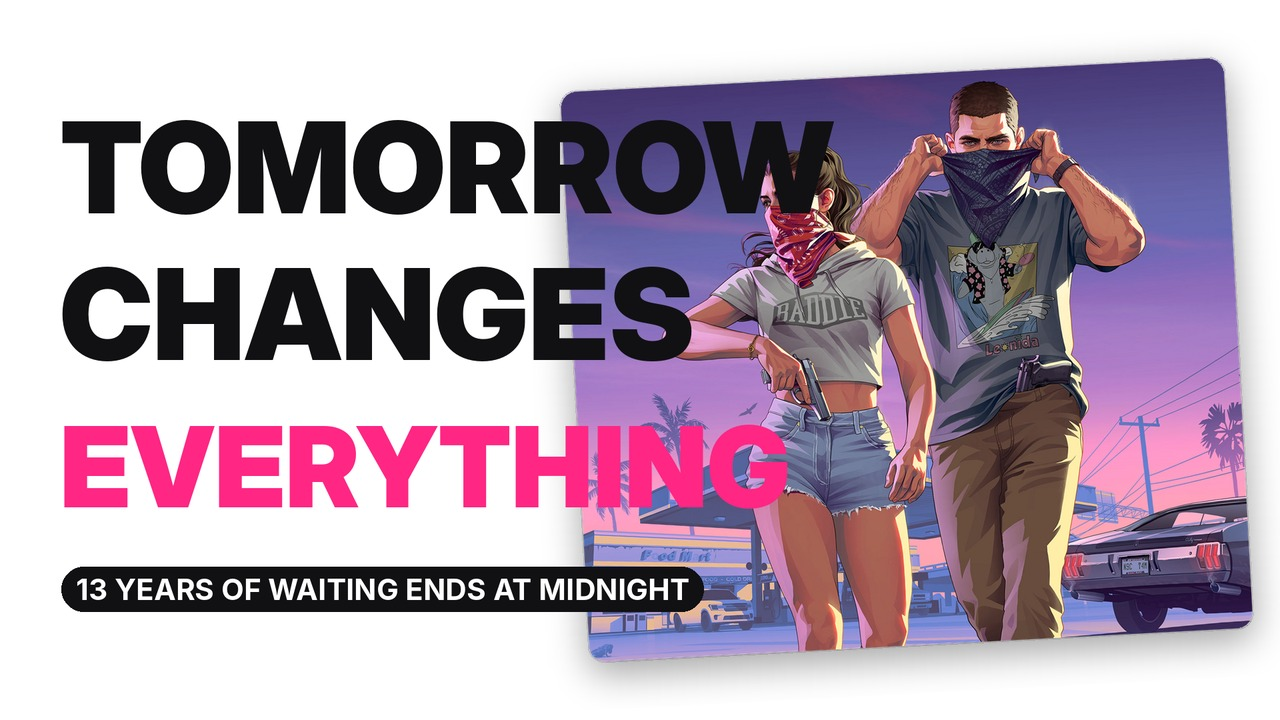
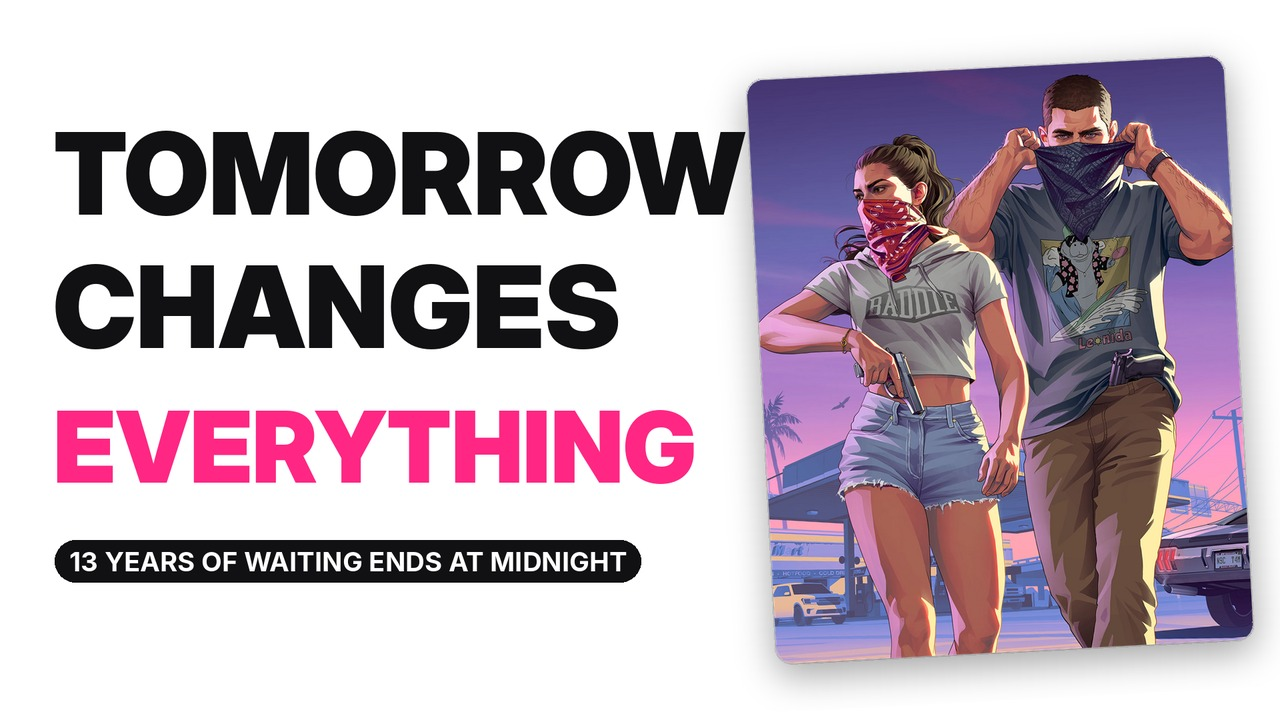
Fix thumbnail layout and package note
Claude-Session: https://claude.ai/code/session_01LyErWgJkQ2kZAfzo24Tw5s

diff --git a/gta6-video/UPLOAD_PACKAGE.md b/gta6-video/UPLOAD_PACKAGE.md
@@ -54,4 +54,4 @@ History (long-established):
 - "Biggest day in human history" is deliberate hyperbole; the script walks it back in the next sentence.
 - "25 games, 2001-2013" counts Rockstar-published titles including ports and handheld entries.
 - The Scotland aerial b-roll is Edinburgh, not Dundee; it is labeled "Scotland".
-- The 1997 Bigfoot/moon-theory section is fan lore, presented as lore.
+- The Bigfoot, Mount Chiliad and moon-theory section is fan lore, presented as lore.
